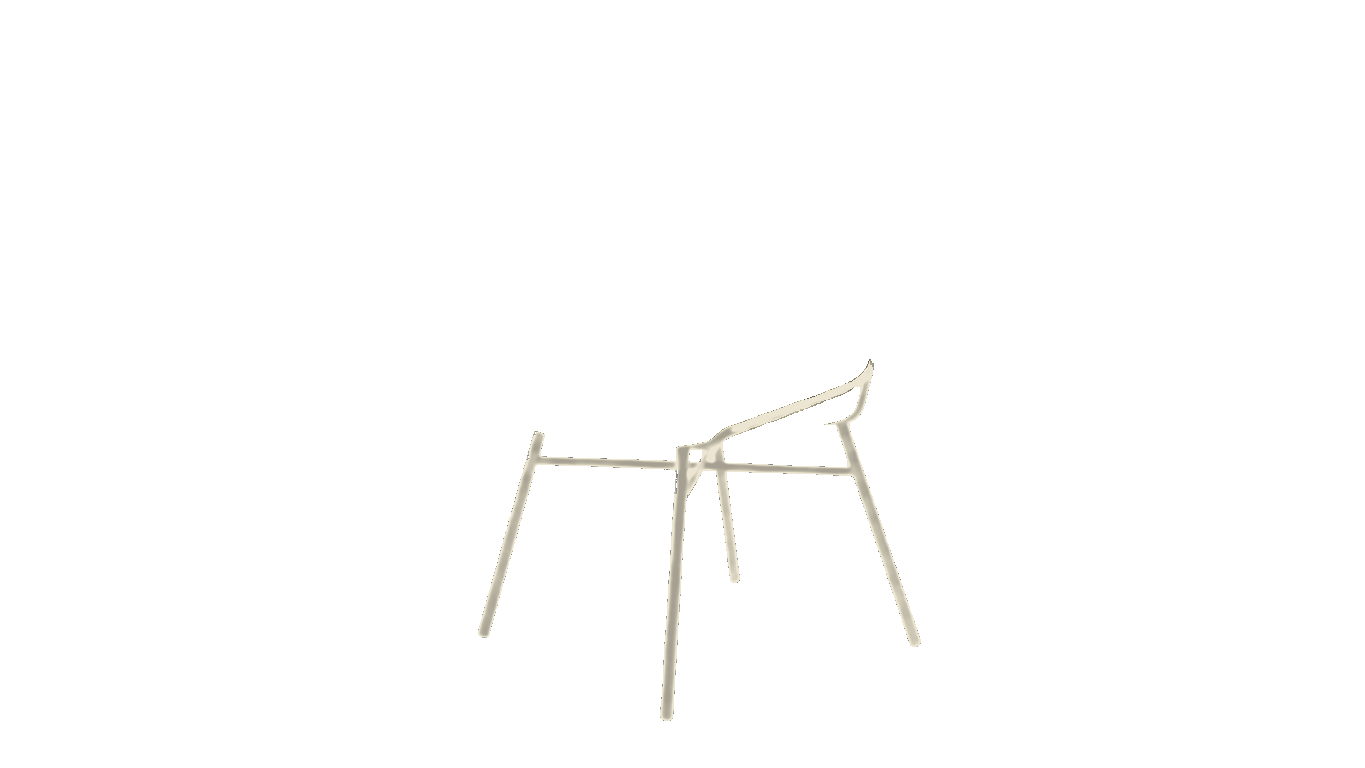
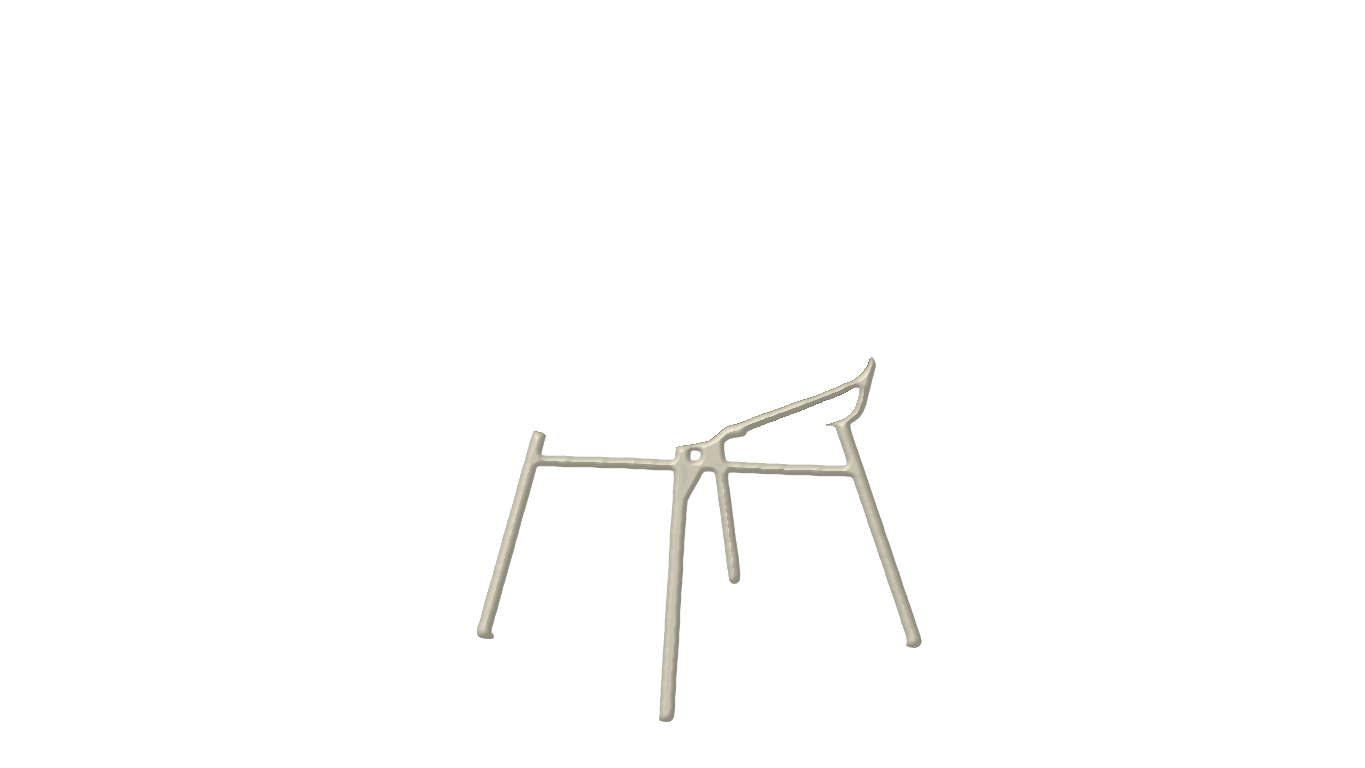
Chaise : détourage lissé des pieds, modelé de tube recalculé

Changed region(s): [[0.3385, 0.4688, 0.6462, 0.9375], [0.6462, 0.7188, 0.6769, 0.8438]]

diff --git a/src/components/product-view.tsx b/src/components/product-view.tsx
@@ -314,6 +314,17 @@ export function ProductView({
                       style={{ objectPosition: img.position }}
                       className={(img.fit ?? "cover") === "contain" ? "object-contain p-1" : "object-cover"}
                     />
+                    {img.fabric && calquePieds(true) && (
+                      <Image
+                        src={calquePieds(true)!}
+                        alt=""
+                        aria-hidden
+                        fill
+                        sizes="150px"
+                        style={{ objectPosition: img.position }}
+                        className={(img.fit ?? "cover") === "contain" ? "object-contain p-1" : "object-cover"}
+                      />
+                    )}
                   </button>
                 );
               })}

diff --git a/scripts/pieds-chaise.py b/scripts/pieds-chaise.py
@@ -15,6 +15,8 @@ from PIL import Image, ImageFilter
 DOSSIER = "public/images/chaises/"
 # Les chaises claires : le noir des pieds y est sans ambiguïté.
 REFERENCES = ["endive", "champagne", "dune", "cendre", "ocre"]
+# Les velours francs : ce qui reste gris sur chacun n'est pas du velours.
+SATUREES = ["endive", "ocre", "bleu-roi", "vert-bouteille", "prune", "paon"]
 # Les teintes du nuancier (products.ts, METAL_FINISH.swatch).
 TEINTES = {
     "noir": (28, 26, 24), "gris": (70, 69, 63), "chocolat": (70, 56, 49),
@@ -39,10 +41,11 @@ def composantes_reliees_au_sol(coeur):
         graine_img = suivant
     return np.asarray(graine_img).astype(np.float32) / 255
 
-def masque_pieds(refs):
+def masque_pieds(refs, saturees):
     """Alpha des pieds : sombre ET peu saturé sur chaque référence claire,
-    d'un seul tenant avec le sol, plein à l'intérieur (les reflets du noir
-    ne sont pas des trous), doux sur le bord."""
+    plus le reflet clair du tube (gris sur tous les velours francs, collé au
+    noir), d'un seul tenant avec le sol, plein à l'intérieur, au contour
+    lissé (le grain JPEG dentelle le bord brut)."""
     m = np.ones(refs[0].shape[:2], np.float32)
     for a in refs:
         lum = a.mean(2); sat = a.max(2) - a.min(2)
@@ -50,44 +53,112 @@ def masque_pieds(refs):
         neutre = np.clip((60 - sat) / 30, 0, 1)       # velours foncé mais coloré → 0
         m = np.minimum(m, sombre * neutre)
     m[:330, :] = 0
-    coeur = (m > 0.45).astype(np.float32)
+    coeur = (m > 0.45)
+    # Le reflet sur le dessus du tube : gris (pas velours), pas fond (trop
+    # clair), et à moins de 4 px du noir.
+    gris = np.ones_like(m, bool)
+    for a in saturees:
+        gris &= (a.max(2) - a.min(2)) < 45
+    gris &= refs[0].mean(2) < 205
+    pres = np.asarray(Image.fromarray((coeur * 255).astype(np.uint8)).filter(ImageFilter.MaxFilter(9))) > 0
+    coeur = (coeur | (gris & pres)).astype(np.float32)
     coeur = composantes_reliees_au_sol(coeur)
-    # Fermeture : les reflets clairs au milieu d'un tube redeviennent du tube.
+    # Fermeture : ce qui reste de reflet au milieu d'un tube redevient du tube.
     img = Image.fromarray((coeur * 255).astype(np.uint8))
-    plein = np.asarray(img.filter(ImageFilter.MaxFilter(7)).filter(ImageFilter.MinFilter(7))).astype(np.float32) / 255
+    plein = np.asarray(img.filter(ImageFilter.MaxFilter(5)).filter(ImageFilter.MinFilter(5))).astype(np.float32) / 255
     plein = np.maximum(plein, coeur)
-    # Le bord doux ne compte qu'à moins de 2 px du cœur.
-    voisin = np.asarray(Image.fromarray((plein * 255).astype(np.uint8)).filter(ImageFilter.MaxFilter(5))).astype(np.float32) / 255
-    return np.maximum(plein, m * voisin)
+    # Contour lissé : flou puis seuil doux, ~2 px d'anti-crénelage.
+    lisse = flou(plein * 255, 1.7) / 255
+    return np.clip((lisse - 0.38) / 0.24, 0, 1)
+
+def flou(a, r):
+    """Flou gaussien d'un tableau float (une couche)."""
+    return np.asarray(Image.fromarray(np.clip(a, 0, 255).astype(np.uint8)).filter(ImageFilter.GaussianBlur(r))).astype(np.float32)
+
+def plus_proche(points, candidats, valeurs=None):
+    """Pour chaque point (N×2), l'indice du candidat (M×2) le plus proche —
+    par paquets, en numpy pur (pas de scipy sur cette machine)."""
+    idx = np.empty(len(points), np.int64); dist = np.empty(len(points), np.float32)
+    for i in range(0, len(points), 2000):
+        p = points[i:i + 2000]
+        d2 = ((p[:, None, 0] - candidats[None, :, 0]) ** 2 + (p[:, None, 1] - candidats[None, :, 1]) ** 2)
+        j = d2.argmin(1)
+        idx[i:i + 2000] = j; dist[i:i + 2000] = np.sqrt(d2[np.arange(len(p)), j])
+    return idx, dist
+
+def profondeur(alpha):
+    """Distance euclidienne au bord du tube, en pixels : 0 sur la lisière,
+    le rayon au centre. Lisse, donc les normales le sont aussi."""
+    coeur = alpha > 0.5
+    dedans = np.argwhere(coeur)
+    ext = np.zeros_like(coeur)
+    ext[1:, :] |= coeur[:-1, :] & ~coeur[1:, :]; ext[:-1, :] |= coeur[1:, :] & ~coeur[:-1, :]
+    ext[:, 1:] |= coeur[:, :-1] & ~coeur[:, 1:]; ext[:, :-1] |= coeur[:, 1:] & ~coeur[:, :-1]
+    bord = np.argwhere(ext)                                  # juste dehors
+    _, dist = plus_proche(dedans, bord)
+    d = np.zeros(alpha.shape, np.float32)
+    d[dedans[:, 0], dedans[:, 1]] = dist
+    return d
+
+def modele_cylindre(alpha, base):
+    """Le relief d'un tube peint : on le recalcule proprement à partir de la
+    forme (le rendu noir est trop bruité pour en tirer un modelé propre).
+    Normale = pente de la distance au bord ; lumière en haut à gauche, devant."""
+    d = profondeur(alpha)
+    d = flou(d * 24, 2.0) / 24
+    r = 5.5
+    h = np.clip(d / r, 0, 1)
+    gy, gx = np.gradient(d)
+    n = np.sqrt(gx ** 2 + gy ** 2) + 1e-6
+    incl = np.sqrt(np.clip(1 - h ** 2, 0, 1))         # 1 sur la lisière, 0 au sommet
+    nx, ny = -gx / n * incl, -gy / n * incl
+    nz = np.sqrt(np.clip(1 - nx ** 2 - ny ** 2, 0, 1))
+    lx, ly, lz = -0.40, -0.50, 0.77
+    diffus = np.clip(nx * lx + ny * ly + nz * lz, 0, 1)
+    spec = np.clip(nx * -0.3 + ny * -0.6 + nz * 0.74, 0, 1) ** 12
+    # Sous l'assise, le tube est dans l'ombre : on le lit dans le rendu.
+    lum = flou(base.mean(2), 6)
+    occlusion = np.clip((lum - 18) / 50, 0.55, 1)
+    return diffus, spec, occlusion
+
+def derriere_le_tube(alpha, base):
+    """Ce qu'il y a derrière la lisière du tube (fond ou velours) : la couleur
+    du pixel hors masque le plus proche. Sert à recomposer le bord."""
+    lisiere = np.argwhere((alpha > 0.03) & (alpha < 0.97))
+    dehors = np.argwhere(alpha < 0.03)
+    # Seuls les pixels dehors à moins de 4 px de la lisière comptent.
+    voisin = np.asarray(Image.fromarray(((alpha > 0.03) * 255).astype(np.uint8)).filter(ImageFilter.MaxFilter(9))) > 0
+    dehors = dehors[voisin[dehors[:, 0], dehors[:, 1]]]
+    idx, _ = plus_proche(lisiere, dehors)
+    out = base.copy()
+    out[lisiere[:, 0], lisiere[:, 1]] = base[dehors[idx, 0], dehors[idx, 1]]
+    return flou_rgb(out, 1.0)
+
+def flou_rgb(a, r):
+    return np.dstack([flou(a[..., k], r) for k in range(3)])
 
 def calque(base, alpha, teinte):
-    """Le pied dans sa teinte, avec le modelé de l'original : les reflets du
-    rendu noir deviennent les reflets de la nouvelle couleur."""
-    # Le grain JPEG du noir ne doit pas devenir des paillettes : on lisse.
-    lum = np.asarray(Image.fromarray(base.mean(2).astype(np.uint8)).filter(ImageFilter.GaussianBlur(1.6))).astype(np.float32)
-    t = np.clip((lum - 22) / 60, 0, 1)                    # 0 ombre, 1 reflet
+    """Le pied dans sa teinte, avec un modelé de tube peint en poudre."""
+    diffus, spec, occlusion = modele_cylindre(alpha, base)
     c = np.array(teinte, np.float32)
     clair = c.mean() > 150
-    # Peinture poudre mate : un modelé discret, pas du chrome.
-    ombre = 0.8 if clair else 0.62
-    couleur = c[None, None, :] * (ombre + (1.08 - ombre) * t[..., None])
-    couleur += 255 * (0.05 * t[..., None] ** 2)
+    if clair:
+        facteur = (0.70 + 0.34 * diffus) * (0.75 + 0.25 * occlusion)
+    else:
+        facteur = (0.55 + 0.50 * diffus) * occlusion
+    couleur = c[None, None, :] * facteur[..., None] + 255 * (0.10 if clair else 0.18) * spec[..., None]
     couleur = np.clip(couleur, 0, 255)
-    # Sur le liseré anti-crénelé, le pixel d'origine mélange le noir du pied
-    # et ce qu'il y a derrière (fond ou velours). On retrouve ce « derrière »
-    # et on le remélange avec la teinte, plutôt que de poser la teinte sur du
-    # noir : sans cela, un pied blanc garde un cerne sombre.
+    # Sur le liseré anti-crénelé, la teinte se remélange avec ce qu'il y a
+    # derrière le tube : sans cela, un pied clair garde un cerne noir.
     a = alpha[..., None]
-    noir = np.array([30, 30, 30], np.float32)
-    derriere = np.clip((base - a * noir) / np.maximum(1 - a, 0.08), 0, 255)
-    pixel = a * couleur + (1 - a) * derriere
-    opaque = np.where(alpha > 0.04, 255, 0).astype(np.float32)
+    pixel = a * couleur + (1 - a) * derriere_le_tube(alpha, base)
+    opaque = np.where(alpha > 0.03, 255, 0).astype(np.float32)
     out = np.dstack([pixel, opaque[..., None]]).astype(np.uint8)
     return Image.fromarray(out)
 
 if __name__ == "__main__":
     refs = [charger(n) for n in REFERENCES]
-    alpha = masque_pieds(refs)
+    alpha = masque_pieds(refs, [charger(n) for n in SATUREES])
     base = refs[0]
     for nom, rgb in TEINTES.items():
         calque(base, alpha, rgb).save(f"{DOSSIER}pieds-{nom}.png", optimize=True)
